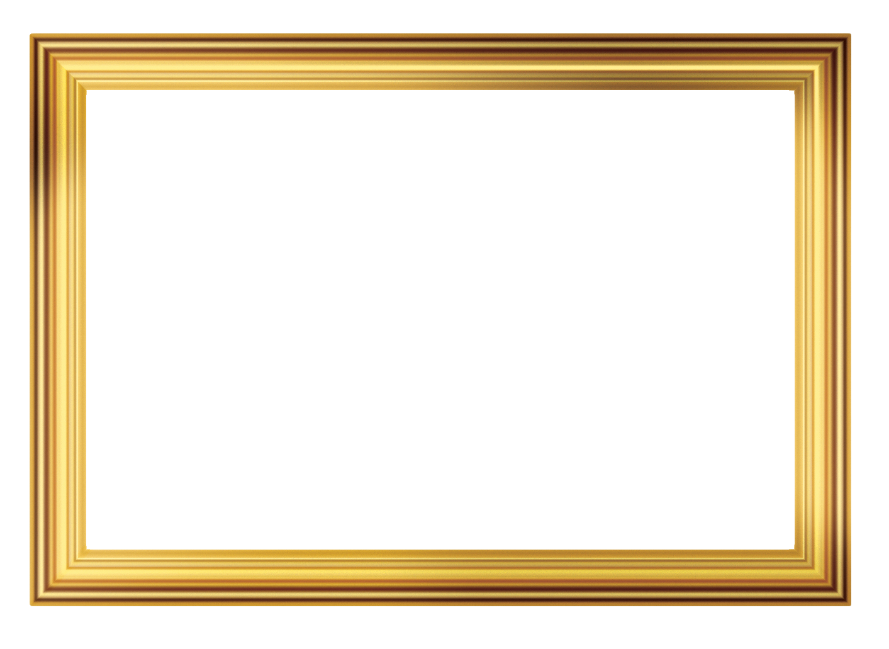
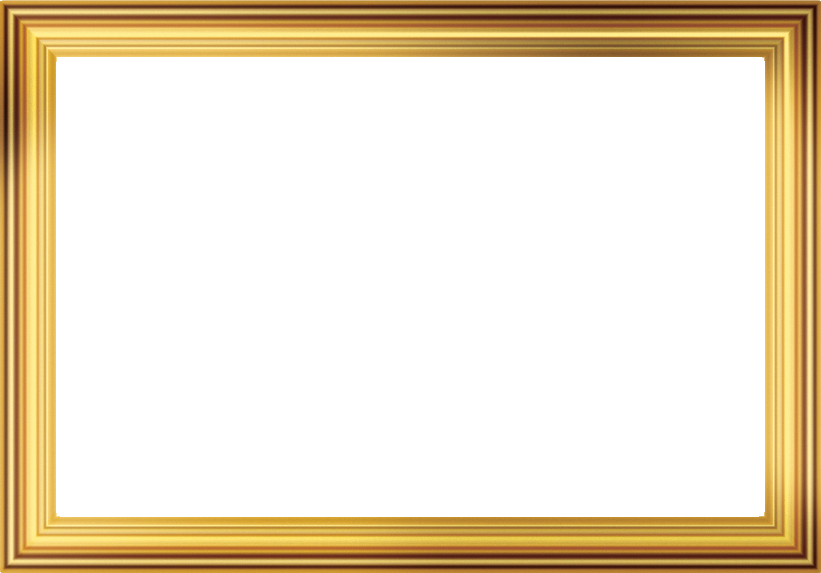
Live preview whats on frame

diff --git a/src/diplayFrame.js b/src/diplayFrame.js
@@ -1,7 +1,6 @@
 const { io } = require('../node_modules/socket.io/client-dist/socket.io.js')
 var socket = io('https://dimetrondon-backend.onrender.com/');
 import Cookies from "js-cookie";
-import { keys } from "lodash";
 
 if (!Cookies.get('user')) window.location = './login.html'
 
@@ -14,6 +13,59 @@ if (!screenid) window.location = './frames.html'
 slider.addEventListener('input', (e) => {
     document.getElementById('settime').innerText = e.target.value;
 });
+
+socket.on(screenid,(obj)=>{
+    let e = JSON.parse(obj)
+    console.log(e);
+    document.getElementById('showhere').innerHTML =''
+
+
+    if (e.genre == "Video") {
+        let source = document.createElement("source")
+        source.src = "https://dimetrodon.fr/files/" + e.file;
+        source.type = "video/mp4"
+        let test = document.createElement('video');
+
+        test.name = e.idart
+        test.autoplay = true;
+        test.loop = true;
+        test.muted = true;  
+        test.load();
+        test.id = "displayed-art-img"
+
+        test.append(source)
+        document.getElementById('showhere').appendChild(test)
+
+
+    } else if (e.genre == "3D") {
+        let test = document.createElement('img');
+        let blur = document.createElement('img');
+        test.id = "displayed-art-img"
+
+        test.name = e.idart
+        test.src = "https://dimetrodon.fr/files/" + e.file.split('.')[0] + '.jpg';
+        document.getElementById('showhere').appendChild(test)
+
+
+
+
+
+    } else {
+        let test = document.createElement("img");
+        let blur = document.createElement("img");
+        test.id = "displayed-art-img"
+        test.src = "https://dimetrodon.fr/files/" + e.file;
+        blur.src = "https://dimetrodon.fr/files/" + e.file;
+    
+        document.getElementById('showhere').appendChild(test)
+    
+
+    }
+    // <img
+    //   src="../images/16070866_nazar-boncuk-rectangle.png"
+    //   id="displayed-art-img"
+    // />
+})
 
 
 fetch('https://dimetrondon-backend.onrender.com/getLikesOfuSER')
@@ -181,3 +233,4 @@ async function postReq(url, data) {
 
     return await resp.json();
 }
+

diff --git a/css/currentlyDisplayed.css b/css/currentlyDisplayed.css
@@ -4,21 +4,30 @@
     margin-top: 30px;
 }
 
-.displayed-art {
-    display: flex;
-    flex-direction: column;
-}
+
+
+
+
+
+  #showhere{
+    display: inline-flex;
+    justify-content: center;
+    align-items: center;
+    width:85%;
+    min-height: 20vh ;
+    max-height: 20vh ;
+    overflow: hidden;
+    margin: 0 auto;
+    background-image: url("../images/testKader.png");
+    background-position: center;
+    background-size: contain;
+    background-repeat: no-repeat;
+  }
 
 .displayed-art :last-child {
     align-self: center;
 }
 
-#displayed-art-img {
-    width: 85%;
-    margin-top: 40px;
-    margin-bottom: 30px;
-    margin-left: 7.5%;
-}
 
 #kader {
     width: 86%;
@@ -86,4 +95,25 @@ video {
     margin-top: 8px !important;
     vertical-align: middle;
     width: 100%;
+}
+
+#showhere img,#showhere video{
+        object-fit: contain;
+        z-index: 5;
+        display: block;
+        max-width: 66%;
+        max-height: 16vh !important;
+        width: auto;
+        margin: 0 !important;
+}
+
+
+.displayed-art p {
+    text-align: center;
+}
+
+.displayed-art{
+    display: flex;
+    flex-direction: column;
+    align-items: center;
 }

diff --git a/html/oneFrameEx.html b/html/oneFrameEx.html
@@ -60,12 +60,8 @@
           ></a>
         </div>
         <div class="displayed-art">
-          <div>
-            <img src="../images/testKader.png" id="kader" />
-            <img
-              src="../images/16070866_nazar-boncuk-rectangle.png"
-              id="displayed-art-img"
-            />
+          <div id="showhere">
+            
           </div>
           <p>art name</p>
         </div>
